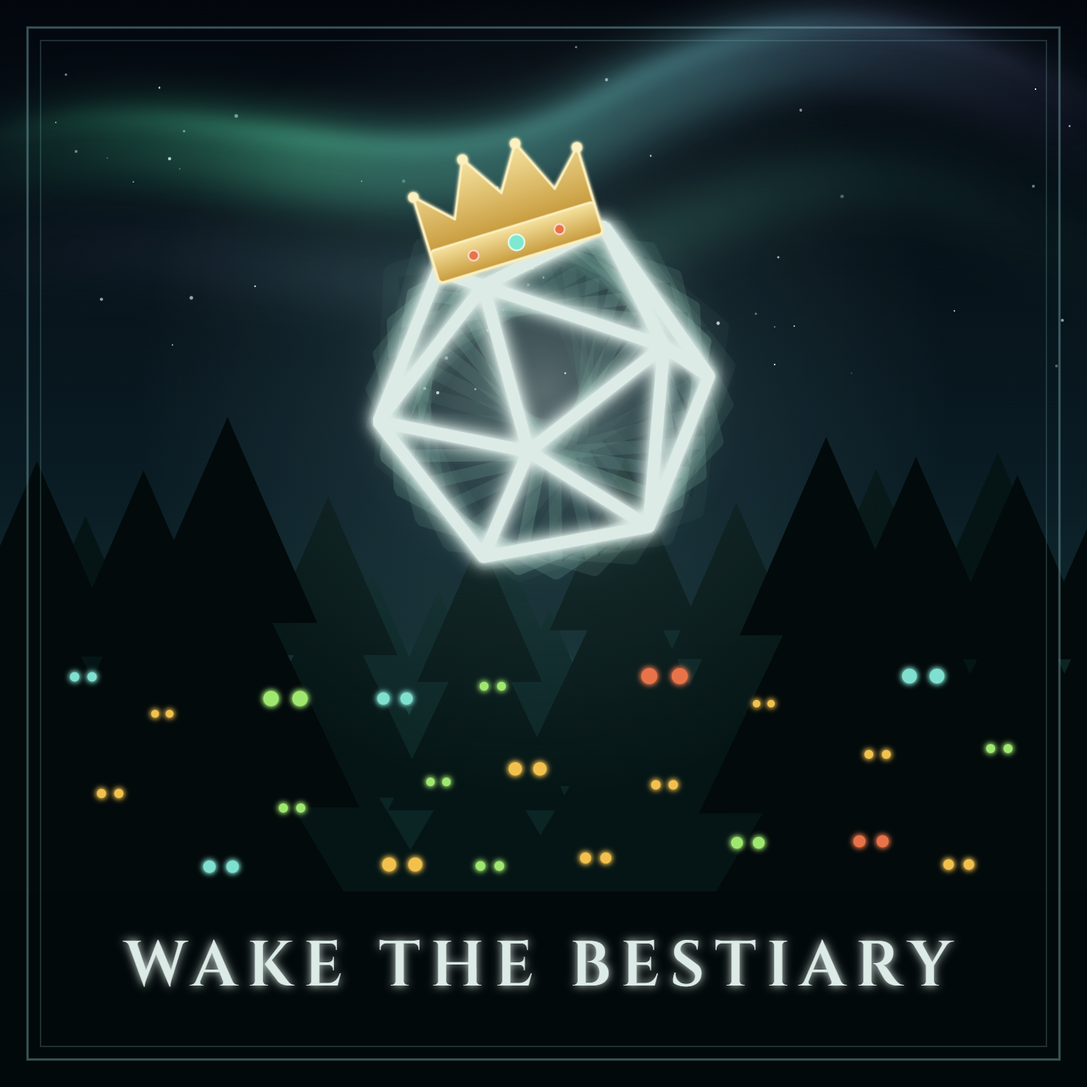
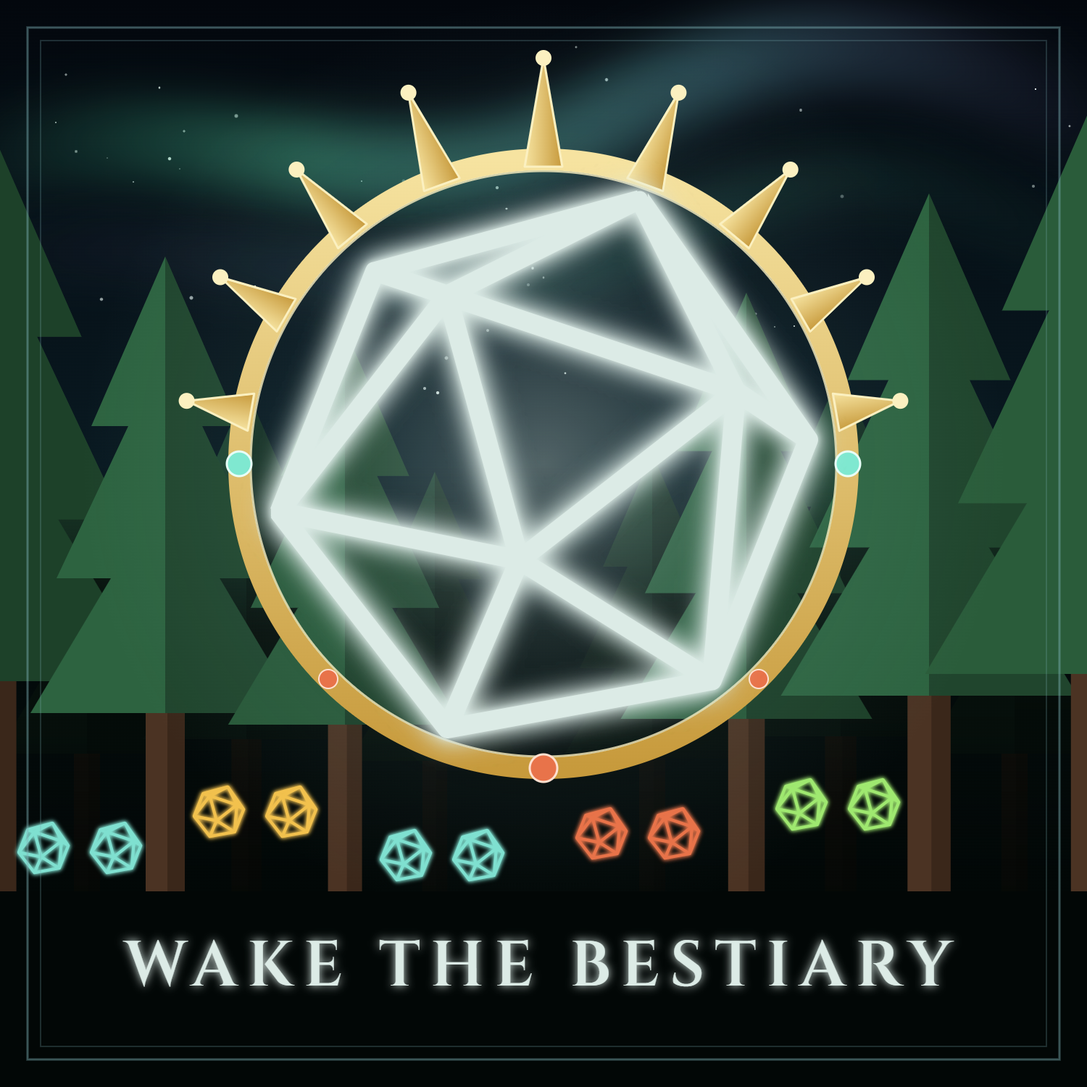
Theme song: a large d20 head ringed by the crown, green pines, d20 eyes

diff --git a/docs/theme-song/cover.html b/docs/theme-song/cover.html
@@ -6,23 +6,29 @@
   The d20 shape is the dndgen.com loading spinner (DnDGen.Web: dndgen-web/src/assets/loadingDice.svg),
   originally from https://gist.github.com/hperantunes/f4c2fd407c2ea74c6c9d
   Title font: Cinzel (Cinzel.ttf, SIL Open Font License - see Cinzel-OFL.txt).
-  Based on the main theme's cover in DnDGen/.github theme-song/cover.html, redrawn as a scene for the bestiary: the d20 wears
-  the Centaur King's crown over a close pine forest and an aurora, and eyes shine in the trees.
+  Based on the main theme's cover in DnDGen/.github theme-song/cover.html, redrawn as a scene for the bestiary: the d20 is
+  the head of the Centaur King, ringed by his crown, over a close forest of green pines and brown trunks, where small
+  d20s glow in the dark between the trees like the eyes of the bestiary.
 -->
 <html>
 <head>
 <meta charset="utf-8">
 <style>@font-face{font-family:Cinzel;src:url("Cinzel.ttf") format("truetype");font-weight:400 900}</style>
-<style>html,body{margin:0;background:#03080a}svg{display:block}</style>
+<style>html,body{margin:0;background:#020605}svg{display:block}</style>
 </head>
 <body>
 <svg xmlns="http://www.w3.org/2000/svg" width="1500" height="1500" viewBox="0 0 1500 1500">
 <defs>
   <linearGradient id="sky" x1="0" y1="0" x2="0" y2="1">
     <stop offset="0" stop-color="#03070d"/>
-    <stop offset="0.45" stop-color="#0a1c24"/>
-    <stop offset="0.75" stop-color="#17383a"/>
-    <stop offset="1" stop-color="#0d2223"/>
+    <stop offset="0.5" stop-color="#0a1c24"/>
+    <stop offset="0.82" stop-color="#10292a"/>
+    <stop offset="1" stop-color="#061211"/>
+  </linearGradient>
+  <linearGradient id="dark" x1="0" y1="0" x2="0" y2="1">
+    <stop offset="0" stop-color="#010504" stop-opacity="0"/>
+    <stop offset="0.35" stop-color="#010504" stop-opacity="0.78"/>
+    <stop offset="1" stop-color="#010504" stop-opacity="0.96"/>
   </linearGradient>
   <linearGradient id="aur1" x1="0" y1="0" x2="1" y2="0">
     <stop offset="0" stop-color="#3fd9a0" stop-opacity="0"/>
@@ -35,17 +41,13 @@
     <stop offset="0.5" stop-color="#6fc9b0" stop-opacity="0.45"/>
     <stop offset="1" stop-color="#3fd9a0" stop-opacity="0"/>
   </linearGradient>
-  <linearGradient id="fog" x1="0" y1="0" x2="0" y2="1">
-    <stop offset="0" stop-color="#9fd8d0" stop-opacity="0"/>
-    <stop offset="1" stop-color="#9fd8d0" stop-opacity="0.16"/>
-  </linearGradient>
   <linearGradient id="gold" x1="0" y1="0" x2="0" y2="1">
     <stop offset="0" stop-color="#f6e3a0"/>
     <stop offset="1" stop-color="#c79a3c"/>
   </linearGradient>
   <radialGradient id="halo" cx="50%" cy="50%" r="50%">
-    <stop offset="0" stop-color="#dff4ee" stop-opacity="0.38"/>
-    <stop offset="0.5" stop-color="#7fb5b8" stop-opacity="0.1"/>
+    <stop offset="0" stop-color="#dff4ee" stop-opacity="0.34"/>
+    <stop offset="0.55" stop-color="#7fb5b8" stop-opacity="0.09"/>
     <stop offset="1" stop-color="#7fb5b8" stop-opacity="0"/>
   </radialGradient>
   <filter id="glow" x="-30%" y="-30%" width="160%" height="160%">
@@ -53,11 +55,19 @@
     <feGaussianBlur in="SourceGraphic" stdDeviation="0.6" result="b2"/>
     <feMerge><feMergeNode in="b1"/><feMergeNode in="b1"/><feMergeNode in="b2"/><feMergeNode in="SourceGraphic"/></feMerge>
   </filter>
+  <filter id="eyeglow" x="-80%" y="-80%" width="260%" height="260%">
+    <feGaussianBlur stdDeviation="3" result="b"/>
+    <feMerge><feMergeNode in="b"/><feMergeNode in="b"/><feMergeNode in="SourceGraphic"/></feMerge>
+  </filter>
   <filter id="tglow" x="-10%" y="-50%" width="120%" height="200%"><feGaussianBlur stdDeviation="6" result="b"/><feMerge><feMergeNode in="b"/><feMergeNode in="SourceGraphic"/></feMerge></filter>
   <filter id="blur30" x="-20%" y="-60%" width="140%" height="220%"><feGaussianBlur stdDeviation="30"/></filter>
   <filter id="blur14" x="-20%" y="-60%" width="140%" height="220%"><feGaussianBlur stdDeviation="14"/></filter>
-  <filter id="eye" x="-300%" y="-300%" width="700%" height="700%"><feGaussianBlur stdDeviation="4" result="b"/><feMerge><feMergeNode in="b"/><feMergeNode in="b"/><feMergeNode in="SourceGraphic"/></feMerge></filter>
-  <polygon id="pine" points="0,-210 34,-132 17,-132 50,-62 25,-62 62,0 6,0 6,26 -6,26 -6,0 -62,0 -25,-62 -50,-62 -17,-132 -34,-132"/>
+  <g id="tree">
+    <rect x="-9" y="0" width="18" height="96" fill="#4b3323"/>
+    <rect x="1" y="0" width="8" height="96" fill="#2c1d12" opacity="0.55"/>
+    <polygon points="0,-210 34,-132 17,-132 50,-62 25,-62 62,0 -62,0 -25,-62 -50,-62 -17,-132 -34,-132"/>
+    <polygon points="0,-210 34,-132 17,-132 50,-62 25,-62 62,0 0,0" fill="#000" opacity="0.3"/>
+  </g>
   <path id="d20" d="M80.644,87.982l16.592-41.483c0.054-0.128,0.088-0.26,0.108-0.394c0.006-0.039,0.007-0.077,0.011-0.116  c0.007-0.087,0.008-0.174,0.002-0.26c-0.003-0.046-0.007-0.091-0.014-0.137c-0.014-0.089-0.036-0.176-0.063-0.262  c-0.012-0.034-0.019-0.069-0.031-0.103c-0.047-0.118-0.106-0.229-0.178-0.335c-0.004-0.006-0.006-0.012-0.01-0.018L67.999,3.358  c-0.01-0.013-0.003-0.026-0.013-0.04L68,3.315V4c0,0-0.033,0-0.037,0c-0.403-1-1.094-1.124-1.752-0.976  c0,0.004-0.004-0.012-0.007-0.012C66.201,3.016,66.194,3,66.194,3H66.19h-0.003h-0.003h-0.004h-0.003c0,0-0.004,0-0.007,0  s-0.003-0.151-0.007-0.151L20.495,15.227c-0.025,0.007-0.046-0.019-0.071-0.011c-0.087,0.028-0.172,0.041-0.253,0.083  c-0.054,0.027-0.102,0.053-0.152,0.085c-0.051,0.033-0.101,0.061-0.147,0.099c-0.044,0.036-0.084,0.073-0.124,0.113  c-0.048,0.048-0.093,0.098-0.136,0.152c-0.03,0.039-0.059,0.076-0.085,0.117c-0.046,0.07-0.084,0.145-0.12,0.223  c-0.011,0.023-0.027,0.042-0.036,0.066L2.911,57.664C2.891,57.715,3,57.768,3,57.82v0.002c0,0.186,0,0.375,0,0.562  c0,0.004,0,0.004,0,0.008c0,0,0,0,0,0.002c0,0,0,0,0,0.004v0.004v0.002c0,0.074-0.002,0.15,0.012,0.223  C3.015,58.631,3,58.631,3,58.633c0,0.004,0,0.004,0,0.008c0,0,0,0,0,0.002c0,0,0,0,0,0.004v0.004c0,0,0,0,0,0.002v0.004  c0,0.191-0.046,0.377,0.06,0.545c0-0.002-0.03,0.004-0.03,0.004c0,0.004-0.03,0.004-0.03,0.004c0,0.002,0,0.002,0,0.002  l-0.045,0.004c0.03,0.047,0.036,0.09,0.068,0.133l29.049,37.359c0.002,0.004,0,0.006,0.002,0.01c0.002,0.002,0,0.004,0.002,0.008  c0.006,0.008,0.014,0.014,0.021,0.021c0.024,0.029,0.052,0.051,0.078,0.078c0.027,0.029,0.053,0.057,0.082,0.082  c0.03,0.027,0.055,0.062,0.086,0.088c0.026,0.02,0.057,0.033,0.084,0.053c0.04,0.027,0.081,0.053,0.123,0.076  c0.005,0.004,0.01,0.008,0.016,0.01c0.087,0.051,0.176,0.09,0.269,0.123c0.042,0.014,0.082,0.031,0.125,0.043  c0.021,0.006,0.041,0.018,0.062,0.021c0.123,0.027,0.249,0.043,0.375,0.043c0.099,0,0.202-0.012,0.304-0.027l45.669-8.303  c0.057-0.01,0.108-0.021,0.163-0.037C79.547,88.992,79.562,89,79.575,89c0.004,0,0.004,0,0.004,0c0.021,0,0.039-0.027,0.06-0.035  c0.041-0.014,0.08-0.034,0.12-0.052c0.021-0.01,0.044-0.019,0.064-0.03c0.017-0.01,0.026-0.015,0.033-0.017  c0.014-0.008,0.023-0.021,0.037-0.028c0.14-0.078,0.269-0.174,0.38-0.285c0.014-0.016,0.024-0.034,0.038-0.048  c0.109-0.119,0.201-0.252,0.271-0.398c0.006-0.01,0.016-0.018,0.021-0.029c0.004-0.008,0.008-0.017,0.011-0.026  c0.002-0.004,0.003-0.006,0.005-0.01C80.627,88.021,80.635,88.002,80.644,87.982z M77.611,84.461L48.805,66.453l32.407-25.202  L77.611,84.461z M46.817,63.709L35.863,23.542l43.818,14.608L46.817,63.709z M84.668,40.542l8.926,5.952l-11.902,29.75  L84.668,40.542z M89.128,39.446L84.53,36.38l-6.129-12.257L89.128,39.446z M79.876,34.645L37.807,20.622L65.854,6.599L79.876,34.645  z M33.268,19.107l-6.485-2.162l23.781-6.487L33.268,19.107z M21.92,18.895l8.67,2.891L10.357,47.798L21.92,18.895z M32.652,24.649  l10.845,39.757L7.351,57.178L32.652,24.649z M43.472,67.857L32.969,92.363L8.462,60.855L43.472,67.857z M46.631,69.09l27.826,17.393  l-38.263,6.959L46.631,69.09z"/>
 </defs>
 <rect width="1500" height="1500" fill="url(#sky)"/>
@@ -108,141 +118,61 @@
 <circle cx="1069" cy="451" r="0.7" fill="#e8f4f0" opacity="0.58"/>
 <circle cx="795" cy="65" r="1.1" fill="#e8f4f0" opacity="0.58"/>
 <g fill="none" stroke-linecap="round">
-  <path d="M-80 250 C 220 90, 520 340, 820 170 S 1320 50, 1580 220" stroke="url(#aur1)" stroke-width="110" opacity="0.55" filter="url(#blur30)"/>
-  <path d="M-80 380 C 260 260, 560 490, 900 330 S 1300 260, 1580 400" stroke="url(#aur2)" stroke-width="80" opacity="0.5" filter="url(#blur30)"/>
-  <path d="M-80 220 C 220 60, 520 310, 820 140 S 1320 20, 1580 190" stroke="url(#aur1)" stroke-width="14" opacity="0.8" filter="url(#blur14)"/>
+  <path d="M-80 250 C 220 90, 520 340, 820 170 S 1320 50, 1580 220" stroke="url(#aur1)" stroke-width="110" opacity="0.5" filter="url(#blur30)"/>
+  <path d="M-80 380 C 260 260, 560 490, 900 330 S 1300 260, 1580 400" stroke="url(#aur2)" stroke-width="80" opacity="0.45" filter="url(#blur30)"/>
 </g>
 <g>
-<use href="#pine" transform="translate(-40 1220) scale(1.12)" fill="#143535"/>
-<use href="#pine" transform="translate(1 1223) scale(1.12)" fill="#143535"/>
-<use href="#pine" transform="translate(48 1219) scale(1.25)" fill="#143535"/>
-<use href="#pine" transform="translate(90 1221) scale(1.49)" fill="#143535"/>
-<use href="#pine" transform="translate(135 1209) scale(1.19)" fill="#143535"/>
-<use href="#pine" transform="translate(181 1222) scale(1.20)" fill="#143535"/>
-<use href="#pine" transform="translate(221 1214) scale(1.24)" fill="#143535"/>
-<use href="#pine" transform="translate(254 1218) scale(1.40)" fill="#143535"/>
-<use href="#pine" transform="translate(287 1207) scale(1.26)" fill="#143535"/>
-<use href="#pine" transform="translate(337 1211) scale(1.34)" fill="#143535"/>
-<use href="#pine" transform="translate(390 1214) scale(1.25)" fill="#143535"/>
-<use href="#pine" transform="translate(433 1209) scale(1.58)" fill="#143535"/>
-<use href="#pine" transform="translate(480 1221) scale(1.33)" fill="#143535"/>
-<use href="#pine" transform="translate(527 1205) scale(1.20)" fill="#143535"/>
-<use href="#pine" transform="translate(559 1214) scale(1.41)" fill="#143535"/>
-<use href="#pine" transform="translate(605 1214) scale(1.40)" fill="#143535"/>
-<use href="#pine" transform="translate(657 1218) scale(1.22)" fill="#143535"/>
-<use href="#pine" transform="translate(693 1217) scale(1.48)" fill="#143535"/>
-<use href="#pine" transform="translate(738 1222) scale(1.11)" fill="#143535"/>
-<use href="#pine" transform="translate(787 1222) scale(1.52)" fill="#143535"/>
-<use href="#pine" transform="translate(838 1216) scale(1.59)" fill="#143535"/>
-<use href="#pine" transform="translate(879 1218) scale(1.12)" fill="#143535"/>
-<use href="#pine" transform="translate(914 1217) scale(1.33)" fill="#143535"/>
-<use href="#pine" transform="translate(955 1215) scale(1.40)" fill="#143535"/>
-<use href="#pine" transform="translate(992 1213) scale(1.11)" fill="#143535"/>
-<use href="#pine" transform="translate(1022 1224) scale(1.15)" fill="#143535"/>
-<use href="#pine" transform="translate(1075 1218) scale(1.04)" fill="#143535"/>
-<use href="#pine" transform="translate(1108 1215) scale(1.10)" fill="#143535"/>
-<use href="#pine" transform="translate(1147 1221) scale(1.51)" fill="#143535"/>
-<use href="#pine" transform="translate(1192 1211) scale(1.40)" fill="#143535"/>
-<use href="#pine" transform="translate(1238 1205) scale(1.22)" fill="#143535"/>
-<use href="#pine" transform="translate(1273 1208) scale(1.43)" fill="#143535"/>
-<use href="#pine" transform="translate(1319 1222) scale(1.55)" fill="#143535"/>
-<use href="#pine" transform="translate(1352 1207) scale(1.24)" fill="#143535"/>
-<use href="#pine" transform="translate(1388 1209) scale(1.35)" fill="#143535"/>
-<use href="#pine" transform="translate(1420 1221) scale(1.56)" fill="#143535"/>
-<use href="#pine" transform="translate(1459 1224) scale(1.17)" fill="#143535"/>
-<use href="#pine" transform="translate(1498 1212) scale(1.17)" fill="#143535"/>
-<use href="#pine" transform="translate(1537 1218) scale(1.21)" fill="#143535"/>
+  <use href="#tree" transform="translate(120 1040) scale(2.0)" fill="#1c3d2c"/>
+  <use href="#tree" transform="translate(340 1020) scale(2.3)" fill="#1e4230"/>
+  <use href="#tree" transform="translate(600 1050) scale(1.9)" fill="#1c3d2c"/>
+  <use href="#tree" transform="translate(900 1046) scale(2.0)" fill="#1c3d2c"/>
+  <use href="#tree" transform="translate(1160 1016) scale(2.4)" fill="#1e4230"/>
+  <use href="#tree" transform="translate(1400 1040) scale(2.0)" fill="#1c3d2c"/>
 </g>
-<rect x="0" y="880" width="1500" height="360" fill="url(#fog)"/>
+<rect x="0" y="640" width="1500" height="660" fill="url(#dark)"/>
 <g>
-<use href="#pine" transform="translate(-50 1246) scale(1.89)" fill="#0b2424"/>
-<use href="#pine" transform="translate(8 1245) scale(1.82)" fill="#0b2424"/>
-<use href="#pine" transform="translate(87 1251) scale(2.01)" fill="#0b2424"/>
-<use href="#pine" transform="translate(175 1253) scale(2.27)" fill="#0b2424"/>
-<use href="#pine" transform="translate(238 1251) scale(2.31)" fill="#0b2424"/>
-<use href="#pine" transform="translate(301 1247) scale(2.22)" fill="#0b2424"/>
-<use href="#pine" transform="translate(366 1243) scale(1.67)" fill="#0b2424"/>
-<use href="#pine" transform="translate(452 1250) scale(2.05)" fill="#0b2424"/>
-<use href="#pine" transform="translate(514 1238) scale(2.13)" fill="#0b2424"/>
-<use href="#pine" transform="translate(605 1253) scale(2.09)" fill="#0b2424"/>
-<use href="#pine" transform="translate(691 1244) scale(2.39)" fill="#0b2424"/>
-<use href="#pine" transform="translate(758 1248) scale(1.94)" fill="#0b2424"/>
-<use href="#pine" transform="translate(848 1253) scale(1.67)" fill="#0b2424"/>
-<use href="#pine" transform="translate(917 1253) scale(2.25)" fill="#0b2424"/>
-<use href="#pine" transform="translate(1006 1252) scale(2.36)" fill="#0b2424"/>
-<use href="#pine" transform="translate(1068 1244) scale(1.72)" fill="#0b2424"/>
-<use href="#pine" transform="translate(1143 1238) scale(1.81)" fill="#0b2424"/>
-<use href="#pine" transform="translate(1224 1244) scale(2.09)" fill="#0b2424"/>
-<use href="#pine" transform="translate(1297 1253) scale(2.34)" fill="#0b2424"/>
-<use href="#pine" transform="translate(1378 1239) scale(2.15)" fill="#0b2424"/>
-<use href="#pine" transform="translate(1458 1238) scale(2.04)" fill="#0b2424"/>
-<use href="#pine" transform="translate(1545 1239) scale(2.22)" fill="#0b2424"/>
+  <use href="#tree" transform="translate(-10 940) scale(3.6)" fill="#2a5c3a"/>
+  <use href="#tree" transform="translate(228 984) scale(3.0)" fill="#2d6340"/>
+  <use href="#tree" transform="translate(476 1000) scale(2.6)" fill="#285838"/>
+  <use href="#tree" transform="translate(1030 992) scale(2.8)" fill="#285838"/>
+  <use href="#tree" transform="translate(1282 960) scale(3.3)" fill="#2d6340"/>
+  <use href="#tree" transform="translate(1512 930) scale(3.8)" fill="#2a5c3a"/>
 </g>
-<g>
-<use href="#pine" transform="translate(-70 1275) scale(2.77)" fill="#051515"/>
-<use href="#pine" transform="translate(118 1275) scale(2.68)" fill="#051515"/>
-<use href="#pine" transform="translate(302 1275) scale(3.14)" fill="#051515"/>
-<use href="#pine" transform="translate(453 1275) scale(2.81)" fill="#051515"/>
-<use href="#pine" transform="translate(662 1275) scale(2.53)" fill="#051515"/>
-<use href="#pine" transform="translate(863 1275) scale(3.07)" fill="#051515"/>
-<use href="#pine" transform="translate(1016 1275) scale(2.77)" fill="#051515"/>
-<use href="#pine" transform="translate(1209 1275) scale(2.99)" fill="#051515"/>
-<use href="#pine" transform="translate(1377 1275) scale(3.10)" fill="#051515"/>
-<use href="#pine" transform="translate(1553 1275) scale(3.12)" fill="#051515"/>
+<circle cx="750" cy="640" r="640" fill="url(#halo)"/>
+<g transform="translate(750 640)">
+  <circle r="420" fill="none" stroke="url(#gold)" stroke-width="30"/>
+  <circle r="404" fill="none" stroke="#fbf0c0" stroke-width="3" opacity="0.8"/>
+  <g transform="rotate(190)"><polygon points="410,-26 410,26 500,0" fill="url(#gold)" stroke="#fbf0c0" stroke-width="3" stroke-linejoin="round"/><circle cx="500" cy="0" r="11" fill="#fbf0c0"/></g>
+  <g transform="rotate(210)"><polygon points="410,-26 410,26 515,0" fill="url(#gold)" stroke="#fbf0c0" stroke-width="3" stroke-linejoin="round"/><circle cx="515" cy="0" r="11" fill="#fbf0c0"/></g>
+  <g transform="rotate(230)"><polygon points="410,-26 410,26 530,0" fill="url(#gold)" stroke="#fbf0c0" stroke-width="3" stroke-linejoin="round"/><circle cx="530" cy="0" r="11" fill="#fbf0c0"/></g>
+  <g transform="rotate(250)"><polygon points="410,-26 410,26 545,0" fill="url(#gold)" stroke="#fbf0c0" stroke-width="3" stroke-linejoin="round"/><circle cx="545" cy="0" r="11" fill="#fbf0c0"/></g>
+  <g transform="rotate(270)"><polygon points="410,-26 410,26 560,0" fill="url(#gold)" stroke="#fbf0c0" stroke-width="3" stroke-linejoin="round"/><circle cx="560" cy="0" r="11" fill="#fbf0c0"/></g>
+  <g transform="rotate(290)"><polygon points="410,-26 410,26 545,0" fill="url(#gold)" stroke="#fbf0c0" stroke-width="3" stroke-linejoin="round"/><circle cx="545" cy="0" r="11" fill="#fbf0c0"/></g>
+  <g transform="rotate(310)"><polygon points="410,-26 410,26 530,0" fill="url(#gold)" stroke="#fbf0c0" stroke-width="3" stroke-linejoin="round"/><circle cx="530" cy="0" r="11" fill="#fbf0c0"/></g>
+  <g transform="rotate(330)"><polygon points="410,-26 410,26 515,0" fill="url(#gold)" stroke="#fbf0c0" stroke-width="3" stroke-linejoin="round"/><circle cx="515" cy="0" r="11" fill="#fbf0c0"/></g>
+  <g transform="rotate(350)"><polygon points="410,-26 410,26 500,0" fill="url(#gold)" stroke="#fbf0c0" stroke-width="3" stroke-linejoin="round"/><circle cx="500" cy="0" r="11" fill="#fbf0c0"/></g>
+  <circle cx="420" cy="0" r="17" fill="#7fe8d0" stroke="#e8fff8" stroke-width="3"/>
+  <circle cx="-420" cy="0" r="17" fill="#7fe8d0" stroke="#e8fff8" stroke-width="3"/>
+  <circle cx="0" cy="420" r="19" fill="#e8734a" stroke="#ffe0d0" stroke-width="3"/>
+  <circle cx="297" cy="297" r="13" fill="#e8734a" stroke="#ffe0d0" stroke-width="2"/>
+  <circle cx="-297" cy="297" r="13" fill="#e8734a" stroke="#ffe0d0" stroke-width="2"/>
 </g>
-<circle cx="750" cy="540" r="560" fill="url(#halo)"/>
-<g transform="translate(750 540) scale(0.5)">
-  <use href="#d20" transform="rotate(-72) scale(11.080) translate(-50 -50)" fill="#7fb3a6" opacity="0.05"/>
-  <use href="#d20" transform="rotate(-60) scale(10.900) translate(-50 -50)" fill="#7fb3a6" opacity="0.08"/>
-  <use href="#d20" transform="rotate(-48) scale(10.720) translate(-50 -50)" fill="#7fb3a6" opacity="0.11"/>
-  <use href="#d20" transform="rotate(-36) scale(10.540) translate(-50 -50)" fill="#7fb3a6" opacity="0.15"/>
-  <use href="#d20" transform="rotate(-24) scale(10.360) translate(-50 -50)" fill="#7fb3a6" opacity="0.2"/>
-  <use href="#d20" transform="rotate(-12) scale(10.180) translate(-50 -50)" fill="#7fb3a6" opacity="0.26"/>
+<g transform="translate(750 640) scale(0.8)">
   <use href="#d20" transform="scale(10) translate(-50 -50)" fill="#dcebe6" filter="url(#glow)"/>
 </g>
-<g transform="translate(716 345) rotate(-17)" filter="url(#glow)">
-  <polygon points="-118,-30 -118,-112 -72,-66 -38,-142 0,-82 38,-142 72,-66 118,-112 118,-30" fill="url(#gold)" stroke="#fbf0c0" stroke-width="3" stroke-linejoin="round"/>
-  <rect x="-118" y="-34" width="236" height="46" rx="6" fill="url(#gold)" stroke="#fbf0c0" stroke-width="3"/>
-  <circle cx="0" cy="-11" r="11" fill="#7fe8d0" stroke="#e8fff8" stroke-width="2"/>
-  <circle cx="-62" cy="-11" r="7" fill="#e8734a" stroke="#ffe0d0" stroke-width="2"/>
-  <circle cx="62" cy="-11" r="7" fill="#e8734a" stroke="#ffe0d0" stroke-width="2"/>
-  <circle cx="-118" cy="-112" r="7" fill="#fbf0c0"/><circle cx="-38" cy="-142" r="7" fill="#fbf0c0"/><circle cx="38" cy="-142" r="7" fill="#fbf0c0"/><circle cx="118" cy="-112" r="7" fill="#fbf0c0"/>
+<g filter="url(#eyeglow)">
+<use href="#d20" transform="translate(60 1170) scale(0.75) translate(-50 -50)" fill="#7fe0d0" stroke="#7fe0d0" stroke-width="2.2" stroke-linejoin="round"/>
+<use href="#d20" transform="translate(160 1170) scale(0.75) translate(-50 -50)" fill="#7fe0d0" stroke="#7fe0d0" stroke-width="2.2" stroke-linejoin="round"/>
+<use href="#d20" transform="translate(302 1120) scale(0.75) translate(-50 -50)" fill="#f2c14e" stroke="#f2c14e" stroke-width="2.2" stroke-linejoin="round"/>
+<use href="#d20" transform="translate(402 1120) scale(0.75) translate(-50 -50)" fill="#f2c14e" stroke="#f2c14e" stroke-width="2.2" stroke-linejoin="round"/>
+<use href="#d20" transform="translate(560 1180) scale(0.75) translate(-50 -50)" fill="#7fe0d0" stroke="#7fe0d0" stroke-width="2.2" stroke-linejoin="round"/>
+<use href="#d20" transform="translate(660 1180) scale(0.75) translate(-50 -50)" fill="#7fe0d0" stroke="#7fe0d0" stroke-width="2.2" stroke-linejoin="round"/>
+<use href="#d20" transform="translate(830 1150) scale(0.75) translate(-50 -50)" fill="#e8734a" stroke="#e8734a" stroke-width="2.2" stroke-linejoin="round"/>
+<use href="#d20" transform="translate(930 1150) scale(0.75) translate(-50 -50)" fill="#e8734a" stroke="#e8734a" stroke-width="2.2" stroke-linejoin="round"/>
+<use href="#d20" transform="translate(1106 1110) scale(0.75) translate(-50 -50)" fill="#9fe86f" stroke="#9fe86f" stroke-width="2.2" stroke-linejoin="round"/>
+<use href="#d20" transform="translate(1206 1110) scale(0.75) translate(-50 -50)" fill="#9fe86f" stroke="#9fe86f" stroke-width="2.2" stroke-linejoin="round"/>
 </g>
-<g>
-<use href="#pine" transform="translate(-80 1340) scale(3.39)" fill="#020a0b"/>
-<use href="#pine" transform="translate(51 1340) scale(3.35)" fill="#020a0b"/>
-<use href="#pine" transform="translate(198 1340) scale(3.29)" fill="#020a0b"/>
-<use href="#pine" transform="translate(314 1340) scale(3.64)" fill="#020a0b"/>
-<use href="#pine" transform="translate(1140 1340) scale(3.51)" fill="#020a0b"/>
-<use href="#pine" transform="translate(1264 1340) scale(3.38)" fill="#020a0b"/>
-<use href="#pine" transform="translate(1404 1340) scale(3.26)" fill="#020a0b"/>
-<use href="#pine" transform="translate(1546 1340) scale(3.41)" fill="#020a0b"/>
-</g>
-<g filter="url(#eye)">
-<circle cx="1199" cy="1041" r="6.1" fill="#f2c14e"/><circle cx="1223" cy="1041" r="6.1" fill="#f2c14e"/>
-<circle cx="896" cy="933" r="11.0" fill="#e8734a"/><circle cx="938" cy="933" r="11.0" fill="#e8734a"/>
-<circle cx="289" cy="1196" r="8.6" fill="#7fe0d0"/><circle cx="321" cy="1196" r="8.6" fill="#7fe0d0"/>
-<circle cx="711" cy="1061" r="9.2" fill="#f2c14e"/><circle cx="745" cy="1061" r="9.2" fill="#f2c14e"/>
-<circle cx="1367" cy="1033" r="6.2" fill="#9fe86f"/><circle cx="1391" cy="1033" r="6.2" fill="#9fe86f"/>
-<circle cx="529" cy="964" r="8.5" fill="#7fe0d0"/><circle cx="561" cy="964" r="8.5" fill="#7fe0d0"/>
-<circle cx="1017" cy="1163" r="8.1" fill="#9fe86f"/><circle cx="1047" cy="1163" r="8.1" fill="#9fe86f"/>
-<circle cx="140" cy="1095" r="6.3" fill="#f2c14e"/><circle cx="164" cy="1095" r="6.3" fill="#f2c14e"/>
-<circle cx="905" cy="1083" r="6.5" fill="#f2c14e"/><circle cx="929" cy="1083" r="6.5" fill="#f2c14e"/>
-<circle cx="1044" cy="971" r="5.2" fill="#f2c14e"/><circle cx="1064" cy="971" r="5.2" fill="#f2c14e"/>
-<circle cx="391" cy="1115" r="6.3" fill="#9fe86f"/><circle cx="415" cy="1115" r="6.3" fill="#9fe86f"/>
-<circle cx="374" cy="964" r="10.6" fill="#9fe86f"/><circle cx="414" cy="964" r="10.6" fill="#9fe86f"/>
-<circle cx="1309" cy="1193" r="7.3" fill="#f2c14e"/><circle cx="1337" cy="1193" r="7.3" fill="#f2c14e"/>
-<circle cx="808" cy="1184" r="7.6" fill="#f2c14e"/><circle cx="836" cy="1184" r="7.6" fill="#f2c14e"/>
-<circle cx="537" cy="1193" r="9.6" fill="#f2c14e"/><circle cx="573" cy="1193" r="9.6" fill="#f2c14e"/>
-<circle cx="214" cy="985" r="5.4" fill="#f2c14e"/><circle cx="234" cy="985" r="5.4" fill="#f2c14e"/>
-<circle cx="668" cy="947" r="6.1" fill="#9fe86f"/><circle cx="692" cy="947" r="6.1" fill="#9fe86f"/>
-<circle cx="1186" cy="1161" r="8.3" fill="#e8734a"/><circle cx="1218" cy="1161" r="8.3" fill="#e8734a"/>
-<circle cx="103" cy="934" r="6.5" fill="#7fe0d0"/><circle cx="127" cy="934" r="6.5" fill="#7fe0d0"/>
-<circle cx="594" cy="1079" r="5.9" fill="#9fe86f"/><circle cx="616" cy="1079" r="5.9" fill="#9fe86f"/>
-<circle cx="1255" cy="933" r="10.2" fill="#7fe0d0"/><circle cx="1293" cy="933" r="10.2" fill="#7fe0d0"/>
-<circle cx="663" cy="1195" r="6.7" fill="#9fe86f"/><circle cx="689" cy="1195" r="6.7" fill="#9fe86f"/>
-</g>
-<rect x="0" y="1230" width="1500" height="270" fill="#02090a"/>
+<rect x="0" y="1230" width="1500" height="270" fill="#020706"/>
 <rect x="38" y="38" width="1424" height="1424" fill="none" stroke="#7fb5b8" stroke-width="3" opacity="0.45"/>
 <rect x="56" y="56" width="1388" height="1388" fill="none" stroke="#7fb5b8" stroke-width="1.5" opacity="0.3"/>
 <text x="750" y="1360" text-anchor="middle" font-family="Cinzel" font-weight="600" font-size="88" letter-spacing="14" fill="#dcebe6" filter="url(#tglow)">WAKE THE BESTIARY</text>

diff --git a/docs/theme-song/README.md b/docs/theme-song/README.md
@@ -246,10 +246,12 @@ msedge --headless --hide-scrollbars --allow-file-access-from-files --window-size
 
 If Edge reads `cover.html` as a web address, pass it as a full `file:///` URL instead.
 
-- It is a scene, drawn after the main theme's [cover](https://github.com/DnDGen/.github/blob/main/theme-song/cover.html), like the other songs' covers. The d20 wears the Centaur King's crown,
-  gold with an emerald and two ember jewels, above a close pine forest and a green aurora, and pairs of eyes in
-  amber, teal, green, and red shine between the trees: the bestiary, waking. The ghost copies behind the d20 are
-  its spin. The title is the song's, *Wake the Bestiary*. v0.1's cover was only the recoloured d20, too plain
-  next to the others, and v0.2's had a centaur silhouette lifting the d20, which didn't read well.
+- It is a scene, drawn after the main theme's [cover](https://github.com/DnDGen/.github/blob/main/theme-song/cover.html), like the other songs' covers. The d20 is the head of the Centaur King, large and centred
+  as on the main theme's cover, and his crown encircles it: a gold ring with a fan of spikes along the top and
+  emerald and ember jewels. Behind it stand close green pines on brown trunks with darkness between them, under a green
+  aurora, and in the dark five pairs of small glowing d20s look out like the eyes of the bestiary, waking. The title is
+  the song's, *Wake the Bestiary*. v0.1's cover was only the recoloured d20, too plain next to the others; v0.2 had a
+  centaur silhouette lifting the d20, which didn't read well; v0.3 put a small crown on the d20's top edge, over a
+  forest of shadowed trees and ordinary glowing eyes, with ghost copies behind the d20.
 - The d20 is the dndgen.com loading spinner, from [DnDGen.Web](https://github.com/DnDGen/DnDGen.Web/blob/main/dndgen-web/src/assets/loadingDice.svg), originally from [a gist by hperantunes](https://gist.github.com/hperantunes/f4c2fd407c2ea74c6c9d).
 - The title is set in [Cinzel](https://github.com/NDISCOVER/Cinzel), included as [Cinzel.ttf](Cinzel.ttf) under the [SIL Open Font License](Cinzel-OFL.txt).

diff --git a/specs/002-creaturegen-theme-song/plan.md b/specs/002-creaturegen-theme-song/plan.md
@@ -41,7 +41,7 @@ also `docs/**/*.md` and `docs/**/*.png`, to its output.
   so lines are sung as words. The Centaur King's introduction and sign-off, and the refrain, are the lines not from the README.
 - **D4: Suno link.** Until the maintainer has one, the record says `TODO_SUNO_LINK` and the README
   has no badge, so the link tests fail. The patch's `SUNO_LINK` is replaced at the same time.
-- **D5: Album art.** A scene, like the other songs' covers: the d20 wears the Centaur King's crown above a close pine forest and an aurora, with pairs of eyes shining between the trees. A bare recoloured d20 was too plain, and a centaur silhouette lifting the d20 did not read well.
+- **D5: Album art.** A scene, like the other songs' covers: the d20, large and centred, is the Centaur King's head and his crown rings it, in front of close green pines and brown trunks with darkness between, and small glowing d20s look out of the dark as eyes. Earlier covers (a bare recoloured d20, a centaur silhouette, a small crown with shadowed trees) were too plain or did not read well.
 
 ## Project Structure
 
